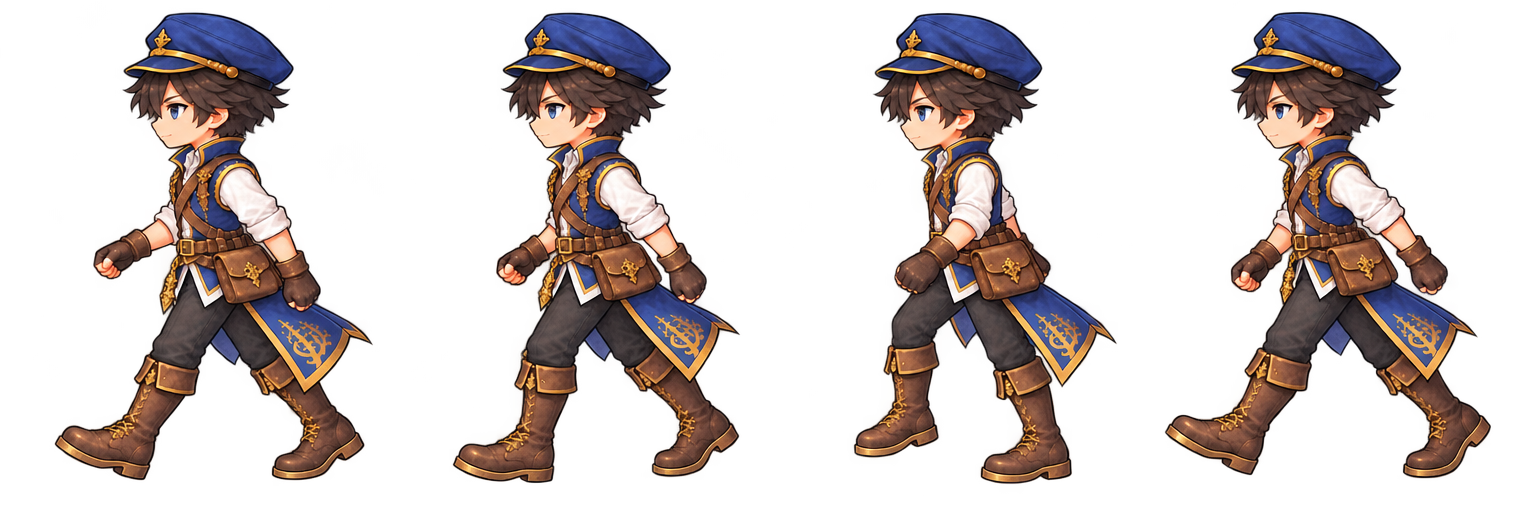
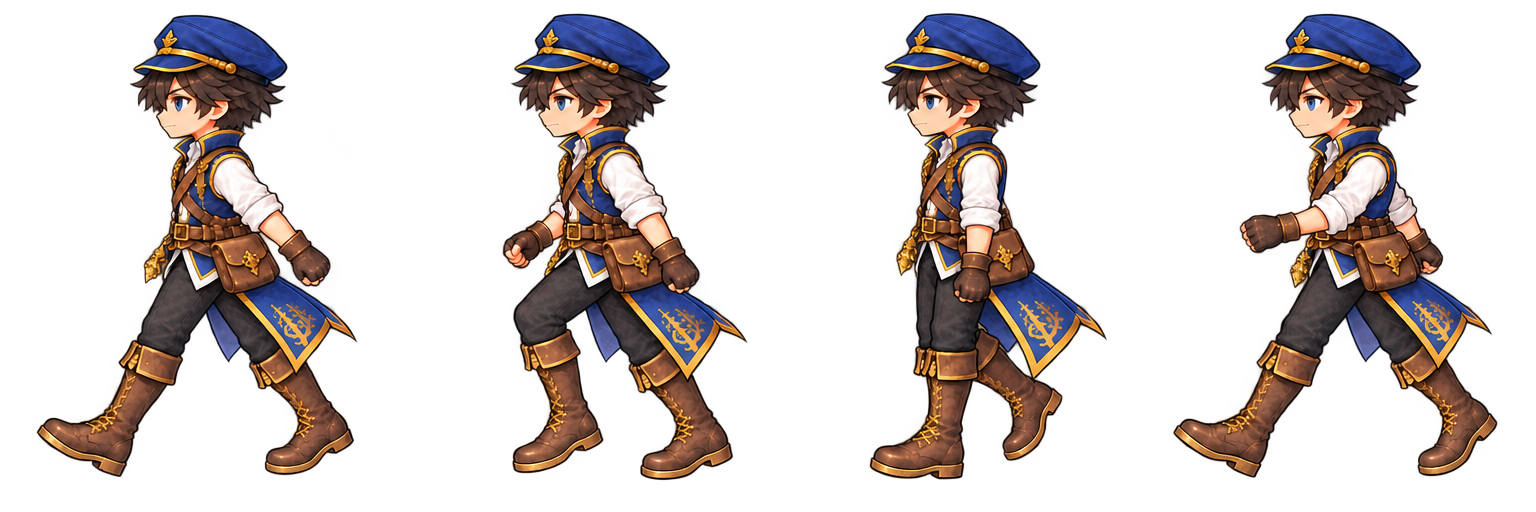
主人公（男性）の左向きの歩きを第3版の8コマに・ゲームの1歩を絵に合わせる（0.58→0.38）
上の段と下の段で足が正しく入れ替わった絵。地面に着いた足が1歩で動く量（コマの高さの 0.38）を測り、
歩幅の設定を絵に合わせて足滑りをなくした。歩く速さは変えていない。

Claude-Session: https://claude.ai/code/session_017pkdgoVCas5KENQnYkuWbn

diff --git a/src/game/world/walkAnim.ts b/src/game/world/walkAnim.ts
@@ -17,9 +17,11 @@ export const WALK_PX = 231;
 export const RUN_RATE = 1.7;
 /**
  * 1歩で進む距離（人物のコマの高さ＝figureH に対する割合）。
- * 2026-10-24 ユーザー「動きがチープで本当に歩いているように見えない」：足がパタパタ速すぎたので 0.45→0.58（約5歩/秒）
+ * 2026-10-24 ユーザー「動きがチープで本当に歩いているように見えない」：足がパタパタ速すぎたので 0.45→0.58（約5歩/秒）。
+ * 2026-10-24（第3版の絵）：男性・左向きの8コマで「地面に着いた足が体に対して動く量」を測ると 1歩 137px（コマの高さ 360 の 0.38）だったので、
+ * 絵に合わせて 0.38 に（足が地面をすべらない。歩く速さ 231px/秒 では約 6.3歩/秒＝25コマ/秒の速足。遅くするなら WALK_PX を下げる）
  */
-export const STEP_PER_HEIGHT = 0.58;
+export const STEP_PER_HEIGHT = 0.38;
 export const RUN_STEP_PER_HEIGHT = 0.6;
 /**
  * 歩き出し・止まり方（2026-10-23）：歩き出しは ACCEL_FROM の速さから ACCEL_S 秒でふつうの速さに。

diff --git a/tests/walkAnim.test.ts b/tests/walkAnim.test.ts
@@ -16,6 +16,7 @@ import {
   sheetRow,
   sheetStatus,
   squashOf,
+  STEP_PER_HEIGHT,
   strideOf,
   WALK_COLS,
   WALK_HOLD_MS,
@@ -108,13 +109,13 @@ describe('直進（フレーム時間が変わっても同じ速さ）', () => {
     expect(Math.abs(a.phase - c.phase)).toBeLessThan(0.2);
   });
 
-  it('1秒で約5歩（0.58×背たけ＝約56px の歩幅）。コマは1歩4コマ', () => {
+  it('1歩は STEP_PER_HEIGHT×コマの高さ（絵に合わせた歩幅）。コマは1歩4コマ', () => {
     const r = simulate({ seconds: 1, dt: 1 / 60 });
     const stride = strideOf(FIGURE_H, false);
-    expect(stride).toBeCloseTo(FIGURE_H * 0.58);
+    expect(stride).toBeCloseTo(FIGURE_H * STEP_PER_HEIGHT);
     expect(r.phase).toBeCloseTo((r.dist / stride) as number, 5);
-    expect(r.phase).toBeGreaterThan(3.5);
-    expect(r.phase).toBeLessThan(4.5);
+    expect(r.phase).toBeGreaterThan((WALK_PX * 0.9) / stride);
+    expect(r.phase).toBeLessThan(WALK_PX / stride);
     expect(framesPerSecond(WALK_PX, stride)).toBeCloseTo((WALK_PX / stride) * FRAMES_PER_STEP);
   });
 });

diff --git a/docs/handoff.md b/docs/handoff.md
@@ -39,7 +39,7 @@
 | 対戦画面の改訂R2（2026-10-24・公開済み `e1b48d9`・**iPhone 確認待ち**） | ユーザーの ZIP「Seimon_Claude_BattleLayout_R2_20261024」のフェーズ2だけ実装：相手の手札を自分と同じ大きさの裏向きで上に（実枚数・中身は出さない・引く/使う/マナ化で動く）、モンスターを 72→58（72/58/54 を比較）→ユーザー指示で左右の欄を細く・アイコンなしにして 66、手札（自分・相手とも）62→66、相手の列は 左＝状態・右＝マナ/山札/手札/捨札、真ん中の帯に最新の経過1行（押すと全部）、操作のボタンは自分のモンスターの右（ユーザー指示「下すぎて操作感に問題」で、いちばん下から移した。自分の列は 左＝マナなど・右＝ボタン）。ルール・カード・セーブ・画像は変更なし。記録と受入テストの結果は `docs/battle-layout-r2.md`、比較画像は `docs/design/battle-layout-r2-20261024/`。**フェーズ1（街・ダンジョン・NPC）は未着手**（動画4本・前の ZIP が届いていない） |
 | 歩く人物の見え方（2026-10-24・公開済み `8641fd1`） | ユーザーの試遊「プカプカ浮いて見える」「指でなぞるとクルクル回って、切り抜いて貼った絵のようでチープ」から：立っている人の呼吸の動きをやめた（`world.css`）、歩くときの体の上下（弾み）を 0 に、足元の影を広く濃く・少し下へ（接地の影）。向き：壁ぞいにすべるときも押している向きの絵のまま（斜めと正面の絵が1歩ごとに入れ替わっていた）、進めない向きへは 0.22 秒押し続けたときだけその場で向く（`worldScreen.ts` の `TURN_IN_PLACE_MS`） |
 | 世界地図 | **2026-10-23 作って公開（`9b6494b`）**（ユーザー案）：街の南の出口・家の壁の地図で開く画面を、ミスモンの世界地図（ユーザーが送った文字のない版。`assets/images/ui/worldmap/world_map.webp`）に。地方の名前6つ（ミスモン本編と同じ：フェルナ・ノルディス・アステリア・オルティガ・セイラン・ネブラシア。英語は仮訳）を絵の上に重ね、舞台の**フェルナ地方**は金色。街（現在地）とダンジョンを丸い印で置き、押すと下に説明。**南の出口からは出発できる・家の壁の地図は見るだけ**（それまでは家からも出発できた）。ダンジョンは各地方に置く方針（例：雪のダンジョン＝ノルディス地方）。印の位置・名前は**仮**（`src/data/worldMap.ts`）。画面は `dungeonSelectScreen.ts` |
-| 次の作業 | **ユーザーが「何回直しても自然にならない」→ 第3版の依頼一式 `docs/design/walk-run-v3-20261024/`（ZIP `Seimon_WalkRun_v3_Prompts.zip` を渡し済み）。決めごと：歩きは大股の速足（身長の 0.6）で描きゲームの1歩を絵に合わせる・走りは別の8コマ・4方向（斜めは横で代用）・男性の左向き歩きから1枚ずつ。走りの動きの見本は `tools/art/walk_guide_draw.py`（RUN_PH）。届いたら確認画面で歩幅を測って組み込む**。第1段階の報告の → 素材が届いたら `walk-run-phase1-20261024/20_` の手順で組み込み、確認画面で歩幅を計測**。それ以外は、**新しいセッションでは、ユーザーの次の指示を待つ**（2026-10-24 ユーザー「まだ試遊はしていません」）。**ユーザーの試遊・iPhone 確認待ち**：対戦画面の改訂R2（公開済み `e1b48d9`。直しの指示が来たら `battleScreen.ts`・`battleTable.css`）。**第7弾の描き直し6枚（両端の飾りなし）を組み込んだ（2026-10-24・公開済み `35b2c69`。記録 `docs/design/ui-quality7fix-20261023/10_受け取り結果_UTF8.txt`）**。**歩き方の改善（2026-10-24・公開済み `35b2c69`）**：ユーザー「動きがチープ」を受け、ゲーム側だけで、足元を中心に体をわずかに縮める／伸ばす・進む向きへ少し前傾き・足元の影の動き・足の動きを落ち着かせる（`STEP_PER_HEIGHT` 0.45→0.58）（`worldScreen.ts` の `#bodyPose`）。比べた動画はチャットで送付。**歩きの絵の次の作業**：男性の正面は8コマで公開済み。次は男性の左向き・背中を「受け取って貼るだけ」の形（`motion-v2-20261024/easy/`：参考の絵1枚＋枠＋動きの見本＋貼る文。AI は右足・左足を取り違えやすいので動きの見本の図を必ず添付）で頼む。**絵の依頼（最新）**：主人公の「歩く・走る」第2版 `docs/design/motion-v2-20261024/`（2026-10-24。1歩4ポーズ＝1周8コマ・1枚に4ポーズ・1人20枚。ZIP `Seimon_Motion_v2.zip` をユーザーに渡し済み。まず男性・正面の歩き2枚。部品で動かす試作〔`tools/art/rig_*_prototype.py`〕はユーザー「ロボットみたい」で不採用）。その前の依頼：主人公の「歩く・走る」全方向 `docs/design/motion-20261024/`（2026-10-24。歩き4ポーズ＋走り4ポーズ×5方向・1枚に1ポーズ・1人34枚。ZIP `Seimon_Motion_Walk_Run.zip` をユーザーに渡し済み。前の `walk-passing-20261024` を含む。まず男性・正面の W2 を1枚）。**男性・正面の W2・W4 が届いて作業ブランチに組み込み済み・未公開**（`docs/design/motion-20261024/10_RESULTS.txt`。比べた動画はチャットで送付）。届いたら `tools/art/adult_walk_build.py` で「右足を前・右足で立ち左足を運ぶ・左足を前・左足で立ち右足を運ぶ」の4コマにする。黒い余白の補正は画面の下が切れたので取り消し済み（公開済み）。絵の依頼の ZIP は作り直し版（`Seimon_WalkPassing.zip`・英数字の名前・5.5MB）をユーザーが受け取り済み。上の帯の設定（`black-translucent`）の変更はユーザーの判断待ち。**改訂R2のフェーズ1（街・ダンジョン・NPC）は公開済み `44b33e2`・iPhone 確認待ち**（2026-10-24。特に、ホーム画面から開いたとき下の黒い帯が消えたか。黒い余白の補正・ダンジョン 1.5 倍／街 1.15 倍とカメラの遊び・先読み・人のまわり〔重ならない・「話す」・こちらを向く〕・スティックの輪の位置）。記録と確認の結果は `docs/battle-layout-r2.md` 6・7章。**ユーザーの iPhone 確認待ち**：歩く人物（浮かない・回らない・影）、対戦画面（相手の手札は裏向き・情報の箱は端・コマンドは自分の情報の下・相手のひと言）、攻撃終了の修正、ラズック、効果音、世界地図、デザイン第6・7弾、新しいアイコン。**届く予定**：第7弾の描き直し6枚（両端の飾りなし。依頼一式 `docs/design/ui-quality7fix-20261023/`）。**ユーザーが決めること**：ラズックの初期・収集の配分（8/8 か 10/6）、ちょうはつ・ダストキックの細かい裁定、相手のひと言の正式な台詞、ダンジョンの対戦の背景、大会の対戦相手の名前・人物像、先生の台詞（仮）、世界地図の印の位置・名前（仮）。ソラモ・ラズックの未定事項は上の「正式カード」の行。未着の依頼：歩きの「半歩」の絵、走る絵 |
+| 次の作業 | **男性・左向きの歩き8コマ（第3版）が届き、作業ブランチに組み込み済み（記録 `docs/design/walk-run-v3-20261024/10_RESULTS_UTF8.txt`）。ゲームの1歩を絵に合わせて `STEP_PER_HEIGHT` 0.58→0.38（足滑りなし・25コマ/秒の速足）。ユーザーの確認待ち：速足が速すぎるなら `WALK_PX` を下げる。次は左向きの走り（`left/5_PROMPT_left_run.txt`）。** その前の経緯：ユーザーが「何回直しても自然にならない」→ 第3版の依頼一式 `docs/design/walk-run-v3-20261024/`（ZIP `Seimon_WalkRun_v3_Prompts.zip` を渡し済み）。決めごと：歩きは大股の速足（身長の 0.6）で描きゲームの1歩を絵に合わせる・走りは別の8コマ・4方向（斜めは横で代用）・男性の左向き歩きから1枚ずつ。走りの動きの見本は `tools/art/walk_guide_draw.py`（RUN_PH）。届いたら確認画面で歩幅を測って組み込む**。第1段階の報告の → 素材が届いたら `walk-run-phase1-20261024/20_` の手順で組み込み、確認画面で歩幅を計測**。それ以外は、**新しいセッションでは、ユーザーの次の指示を待つ**（2026-10-24 ユーザー「まだ試遊はしていません」）。**ユーザーの試遊・iPhone 確認待ち**：対戦画面の改訂R2（公開済み `e1b48d9`。直しの指示が来たら `battleScreen.ts`・`battleTable.css`）。**第7弾の描き直し6枚（両端の飾りなし）を組み込んだ（2026-10-24・公開済み `35b2c69`。記録 `docs/design/ui-quality7fix-20261023/10_受け取り結果_UTF8.txt`）**。**歩き方の改善（2026-10-24・公開済み `35b2c69`）**：ユーザー「動きがチープ」を受け、ゲーム側だけで、足元を中心に体をわずかに縮める／伸ばす・進む向きへ少し前傾き・足元の影の動き・足の動きを落ち着かせる（`STEP_PER_HEIGHT` 0.45→0.58）（`worldScreen.ts` の `#bodyPose`）。比べた動画はチャットで送付。**歩きの絵の次の作業**：男性の正面は8コマで公開済み。次は男性の左向き・背中を「受け取って貼るだけ」の形（`motion-v2-20261024/easy/`：参考の絵1枚＋枠＋動きの見本＋貼る文。AI は右足・左足を取り違えやすいので動きの見本の図を必ず添付）で頼む。**絵の依頼（最新）**：主人公の「歩く・走る」第2版 `docs/design/motion-v2-20261024/`（2026-10-24。1歩4ポーズ＝1周8コマ・1枚に4ポーズ・1人20枚。ZIP `Seimon_Motion_v2.zip` をユーザーに渡し済み。まず男性・正面の歩き2枚。部品で動かす試作〔`tools/art/rig_*_prototype.py`〕はユーザー「ロボットみたい」で不採用）。その前の依頼：主人公の「歩く・走る」全方向 `docs/design/motion-20261024/`（2026-10-24。歩き4ポーズ＋走り4ポーズ×5方向・1枚に1ポーズ・1人34枚。ZIP `Seimon_Motion_Walk_Run.zip` をユーザーに渡し済み。前の `walk-passing-20261024` を含む。まず男性・正面の W2 を1枚）。**男性・正面の W2・W4 が届いて作業ブランチに組み込み済み・未公開**（`docs/design/motion-20261024/10_RESULTS.txt`。比べた動画はチャットで送付）。届いたら `tools/art/adult_walk_build.py` で「右足を前・右足で立ち左足を運ぶ・左足を前・左足で立ち右足を運ぶ」の4コマにする。黒い余白の補正は画面の下が切れたので取り消し済み（公開済み）。絵の依頼の ZIP は作り直し版（`Seimon_WalkPassing.zip`・英数字の名前・5.5MB）をユーザーが受け取り済み。上の帯の設定（`black-translucent`）の変更はユーザーの判断待ち。**改訂R2のフェーズ1（街・ダンジョン・NPC）は公開済み `44b33e2`・iPhone 確認待ち**（2026-10-24。特に、ホーム画面から開いたとき下の黒い帯が消えたか。黒い余白の補正・ダンジョン 1.5 倍／街 1.15 倍とカメラの遊び・先読み・人のまわり〔重ならない・「話す」・こちらを向く〕・スティックの輪の位置）。記録と確認の結果は `docs/battle-layout-r2.md` 6・7章。**ユーザーの iPhone 確認待ち**：歩く人物（浮かない・回らない・影）、対戦画面（相手の手札は裏向き・情報の箱は端・コマンドは自分の情報の下・相手のひと言）、攻撃終了の修正、ラズック、効果音、世界地図、デザイン第6・7弾、新しいアイコン。**届く予定**：第7弾の描き直し6枚（両端の飾りなし。依頼一式 `docs/design/ui-quality7fix-20261023/`）。**ユーザーが決めること**：ラズックの初期・収集の配分（8/8 か 10/6）、ちょうはつ・ダストキックの細かい裁定、相手のひと言の正式な台詞、ダンジョンの対戦の背景、大会の対戦相手の名前・人物像、先生の台詞（仮）、世界地図の印の位置・名前（仮）。ソラモ・ラズックの未定事項は上の「正式カード」の行。未着の依頼：歩きの「半歩」の絵、走る絵 |
 
 ## 2. これまでの作業（時系列・要点だけ）
 
